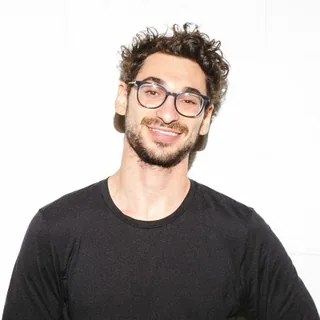
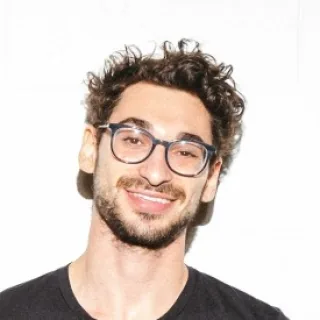
Copy edits, centred headshots, and an intro for Cole Pearsall
- "Who it's for" heading is now "Two deeply rewarding half-days of
  Pipeline content"; the photo caption says "A full house"; the
  manager-case point is "Direct access to thought leaders in the industry".
- Speakers have signed off on recording, so "where speakers agree" is gone
  from the home page and the schedule intro.
- Headshots re-cropped around each detected face so it sits in the middle
  of the circle (small blurred extensions where a photo ran out of room).
- Cole Pearsall gets an intro like the other speakers: his team's
  DigiPro 2026 paper (layout-to-animation QC from ~30 minutes a shot to
  ~27 seconds), on his card, his schedule entry and the speakers page,
  with a link to the paper.

Claude-Session: https://claude.ai/code/session_01EKPKMJEBC5N8HRnpwLvTi7

diff --git a/content/2026-event-schedule/_index.md b/content/2026-event-schedule/_index.md
@@ -7,7 +7,7 @@ author: "Fran"
 programme:
   eyebrow: "TPC 2026 · Online · Free to attend"
   heading: "The 2026 online programme"
-  intro: 'TPC 2026 moved online from Vancouver, so this year anyone can join from anywhere. The programme our volunteers built runs as two free half-days in October, followed by the tenth Pipeline Awards in December. Every talk ends in live Q&A, and sessions are recorded where speakers agree and published on <a href="https://www.youtube.com/@ThePipelineConference">The Pipeline Conference YouTube channel</a>.'
+  intro: 'TPC 2026 moved online from Vancouver, so this year anyone can join from anywhere. The programme our volunteers built runs as two free half-days in October, followed by the tenth Pipeline Awards in December. Every talk ends in live Q&A, and every session is recorded and published on <a href="https://www.youtube.com/@ThePipelineConference">The Pipeline Conference YouTube channel</a>.'
   days:
     - eyebrow: "Half-day one"
       title: "The Agentic Pipeline"
@@ -58,7 +58,10 @@ programme:
         - title: "Introducing Agentic Workflows into Core Pipeline Automation & Governance"
           speakers:
             - id: "cole-pearsall"
-          abstract: "Bringing an agentic QC capability to life means shifting from rigid, hardcoded scripts to a secure multi-agent architecture grounded in studio-specific knowledge. By pairing specialised AI agents with lightweight local proxies, studios can run complex DCC checks and scene evaluations directly on artist workstations without exposing proprietary data. The approach automates tedious layout-to-animation handoffs in seconds, delivering clear, evidence-based pass/fail reports, and scales across other pipeline bottlenecks."
+          abstract: "Cole Pearsall is the founder and CEO of Symbiote, which builds connective infrastructure for creative pipelines, bringing multi-agent AI to animation, VFX, games and real-time production. At DigiPro 2026 he and the Symbiote team showed a multi-agent system that takes the layout-to-animation QC check from roughly 30 minutes a shot to about 27 seconds, at around ten cents of inference per run. Bringing an agentic QC capability to life means shifting from rigid, hardcoded scripts to a secure multi-agent architecture grounded in studio-specific knowledge. By pairing specialised AI agents with lightweight local proxies, studios can run complex DCC checks and scene evaluations directly on artist workstations without exposing proprietary data. The approach automates tedious layout-to-animation handoffs in seconds, delivering clear, evidence-based pass/fail reports, and scales across other pipeline bottlenecks."
+          links:
+            - text: "Read the DigiPro 2026 paper"
+              url: "https://doi.org/10.1145/3819990.3820032"
 
     - eyebrow: "October 2026"
       title: "DPPA Online Speaker Series"

diff --git a/content/2026-speakers/_index.md b/content/2026-speakers/_index.md
@@ -40,9 +40,10 @@ A structured, four-stage engagement that moves teams from initial evaluation to 
 **[Alan McSeveney](https://www.linkedin.com/in/alanmcseveney/) — Field CTO, WEKA; previously CTO at Preymaker and Head of Technology at The Mill**  
 Alan McSeveney, a veteran technologist, co-founded the entirely cloud-native studio Preymaker and spent over a decade leading technology at The Mill. He shares how unifying studio storage into a single high-performance architecture eliminates data bottlenecks across complex VFX rendering, real-time playback and cloud-bursting pipelines. Drawing on his deep studio background, Alan demonstrates how removing those I/O limits enables production teams to scale traditional visual effects while seamlessly preparing their infrastructure for next-generation generative AI workloads.
 
-**[Cole Pearsall](https://www.linkedin.com/in/cole-pearsall/) — Founder & CEO at Symbiote**  
+**[Cole Pearsall](https://www.linkedin.com/in/cole-pearsall/) — Founder & CEO at Symbiote; Forbes 30 Under 30**  
 *Introducing Agentic Workflows into Core Pipeline Automation & Governance*  
-Bringing an agentic QC capability to life means shifting from rigid, hardcoded scripts to a secure multi-agent architecture grounded in studio-specific knowledge. By pairing specialised AI agents with lightweight local proxies, studios can run complex DCC checks and scene evaluations directly on artist workstations without exposing proprietary data. The approach automates tedious layout-to-animation handoffs in seconds, delivering clear, evidence-based pass/fail reports, and scales across other pipeline bottlenecks.
+Cole Pearsall is the founder and CEO of Symbiote, which builds connective infrastructure for creative pipelines, bringing multi-agent AI to animation, VFX, games and real-time production. At DigiPro 2026 he and the Symbiote team showed a multi-agent system that takes the layout-to-animation QC check from roughly 30 minutes a shot to about 27 seconds, at around ten cents of inference per run. Bringing an agentic QC capability to life means shifting from rigid, hardcoded scripts to a secure multi-agent architecture grounded in studio-specific knowledge. By pairing specialised AI agents with lightweight local proxies, studios can run complex DCC checks and scene evaluations directly on artist workstations without exposing proprietary data. The approach automates tedious layout-to-animation handoffs in seconds, delivering clear, evidence-based pass/fail reports, and scales across other pipeline bottlenecks.  
+[Read the DigiPro 2026 paper](https://doi.org/10.1145/3819990.3820032)
 
 ---
 

diff --git a/content/_index.md b/content/_index.md
@@ -109,21 +109,21 @@ online_events:
 # Who TPC is for, and the case for two mornings off (Michael Herrera's feedback, Oct 2026).
 the_case:
   eyebrow: "Who it's for"
-  heading: "Worth two mornings of your week"
+  heading: "Two deeply rewarding half-days of Pipeline content"
   intro: "TPC is for the people who build and run production pipelines: pipeline engineers and developers, technical directors and technical artists, and the R&D, infrastructure and production technology teams behind animation, VFX, games and real-time media. Students and people new to the industry are just as welcome. This is where you meet the people doing the work."
   image: "/uploads/2026/07/siggraph/pipeline-bof-2026-room.webp"
   image_alt: "A full room of pipeline professionals at one of the DPPA's Birds of a Feather sessions at SIGGRAPH 2026."
-  image_caption: "A full room at one of our pipeline Birds of a Feather sessions, SIGGRAPH 2026."
+  image_caption: "A full house at one of our pipeline Birds of a Feather sessions, SIGGRAPH 2026."
   panel_heading: "Making the case to your manager"
   points:
     - title: "No travel, no ticket"
       body: "Two three-hour mornings, online and free. The only cost is your time."
     - title: "Ideas you can use on Monday"
       body: "How to keep generative models under pipeline control, a staged roadmap to OpenUSD, taking storage I/O off the critical path, and agentic QC that never sends studio data off the workstation."
-    - title: "Direct access to people who have done it"
+    - title: "Direct access to thought leaders in the industry"
       body: "Every talk ends in live Q&A with speakers who built pipelines at Digital Domain, Stability AI, Pixar, Ubisoft, Sony Pictures Imageworks and The Mill."
     - title: "It reaches the whole team"
-      body: "Talks are recorded for the TPC YouTube channel where speakers agree, and the discussion carries on in our <a href=\"https://discord.gg/PU8hygUfbf\">Discord</a>, so what you learn travels back to your studio."
+      body: "Talks are recorded for the TPC YouTube channel, and the discussion carries on in our <a href=\"https://discord.gg/PU8hygUfbf\">Discord</a>, so what you learn travels back to your studio."
   buttons:
     - text: "Register · Tue 20 Oct"
       url: "https://luma.com/9kqv63oh"
